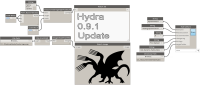
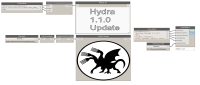
Testing 1.1.0

diff --git a/DynamoTest1/README.md b/DynamoTest1/README.md
@@ -1,6 +1,6 @@
 ### Description
-Testing Dynamo 0.9.1
+Testing Dynamo 1.1.0
 ### Version
-File Version: 9
+File Version: 10
 ### Tags
 test,dynamo,hydra,beta
